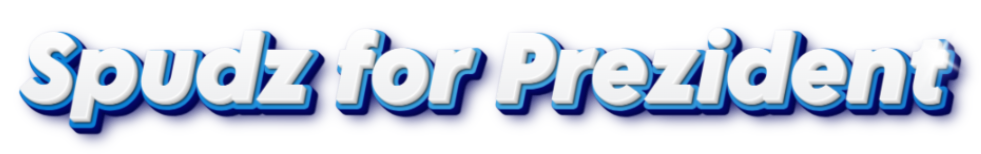
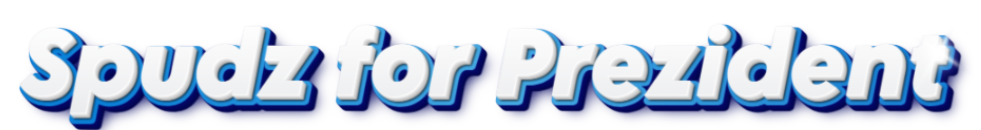
ui is great on desktop

diff --git a/src/app/_components/votingUi.tsx b/src/app/_components/votingUi.tsx
@@ -3,6 +3,7 @@ import { useVotes } from "@/hooks/useVotes"
 import { cn } from "@/utils/tailwind"
 import {motion, useAnimation} from "framer-motion"
 import { useEffect, useState } from "react"
+import { TotalVotes } from "./totalVotes"
 
 export const VotingUi = ()=>{
 const {addBidenVote , addTrumpVote} = useVotes()
@@ -46,20 +47,23 @@ const handleBidenClick = ()=>{
 
 
 
-    return <div className="flex relative  justify-center gap-32 px-14 w-full  z-0 mt-11" >
-    <div className="flex z-10 relative flex-col gap-7" >
+    return <div className="flex relative  justify-center lg:gap-36 gap-32 px-14 w-full  z-0 lg:mt-1 mt-11" >
+    <div className="flex z-10 relative flex-col lg:gap-0 gap-7" >
     <motion.h4  initial={{y : -300 , opacity : 1}} animate={voteTrumpAnimation} className={cn("H1 absolute top-44 right-0 text-white" , {"hidden" : !votingTrump} )} >+1</motion.h4>
-   <img  className="w-[400px]" src="/trumpText.png" />
-   <motion.img animate={rotateTrumpAnimation}   className="w-[400px] cursor-pointer" onClick={handleTrumpClick} src="/trumpBody.png" />
+   <img  className="w-[250px] " src="/trumpText.png" />
+   <motion.img animate={rotateTrumpAnimation}   className="w-[300px]  cursor-pointer" onClick={handleTrumpClick} src="/trumpBody.png" />
    </div>
+   <div className="flex flex-col pt-28 gap-4 items-center " >
    <div className="z-0 absolute top-1/2 flex  justify-center left-1/2 w-7/12 -translate-x-1/2 -translate-y-1/2" >
-   <img src="/vsBg.png" className="absolute z-[1]  opacity-70  top-1/2 left-1/2 -translate-x-1/2 -translate-y-1/2 w-full"  />
-   <img src="/vs.png"  className="z-[2] h-fit w-[320px] -translate-y-24" />
+   <img src="/vsBg.png" className="absolute z-[1]  lg:hidden opacity-70  top-1/2 left-1/2 -translate-x-1/2 -translate-y-1/2 w-full"  />
+   <img src="/vs.png"  className="z-[2] h-fit w-[180px] -translate-y-24" />
+   </div>
+   <div className="hidden lg:block" ><TotalVotes/></div>
    </div> 
-   <div className="flex z-10 relative flex-col gap-7" >
+   <div className="flex z-10 relative flex-col lg:gap-0 gap-7" >
    <motion.h4  initial={{y : -300 , opacity : 1}} animate={voteBidenAnimation} className={cn("H1 absolute top-44 right-0 text-white" , {"hidden" : !votingBiden} )} >+1</motion.h4>
-   <img className="w-[400px]" src="/bidenText.png" />
-   <motion.img className="w-[400px] cursor-pointer" animate={rotateBidenAnimation} onClick={handleBidenClick} src="/bidenBody.png" />
+   <img className="w-[250px]" src="/bidenText.png" />
+   <motion.img className="w-[300px] cursor-pointer" animate={rotateBidenAnimation} onClick={handleBidenClick} src="/bidenBody.png" />
    </div>
 
   </div>

diff --git a/src/app/_components/leaderboard.tsx b/src/app/_components/leaderboard.tsx
@@ -94,14 +94,14 @@ export const LeaderBoard : React.FC<{ipAddress : string  , countriesVotes : Coun
  
 
 
-     const greatestCountry = countriesVotes.reduce((acc , countryVotes)=>{
+     const greatestCountry : CountryInfoDb | undefined = countriesVotes.length ? countriesVotes?.reduce((acc , countryVotes)=>{
     
 if(acc.biden + acc.trump < countryVotes.biden+ countryVotes.trump) return countryVotes
 else return acc
-     })
+     }) : undefined
     return        <motion.div  initial={{y : 0}} animate={openLeaderboardAnimation} className="bg-white relative  w-[900px]  mt-6  flex flex-col" >
     <div className="px-8 py-4  flex items-center justify-between" >
-    <div className="flex gap-1 items-center  " ><div>#1</div>    <img src={`/flags/${greatestCountry.countrySymbol?.trim().toLowerCase()}.png`}  width="50px" />{ greatestCountry.trump + greatestCountry.biden }    </div>
+    { greatestCountry ?  <div className="flex gap-1 items-center  " ><div>#1</div>    <img src={`/flags/${greatestCountry.countrySymbol?.trim().toLowerCase()}.png`}  width="50px" />{ greatestCountry.trump + greatestCountry.biden }    </div> : <div className="skeleton w-40 h-8" ></div> }
     <div className="flex gap-4 items-center  " >
     <img src={`/flags/${countrySymbol?.trim().toLowerCase()}.png`}  width="50px" />{ totalCountryVotes }
     {leaderboardOpened ? <img onClick={closeLeaderBoard} src="/icons/dropDown.svg " className="w-[25px] rotate-180 cursor-pointer" /> :  <img onClick={openLeaderBoard} src="/icons/dropDown.svg " className="w-[25px] cursor-pointer" />}

diff --git a/src/app/page.tsx b/src/app/page.tsx
@@ -18,18 +18,18 @@ export default async function Home() {
 
   
    return (
-    <main className="max-w-[1500px] overflow-hidden flex items-center  flex-col justify-center pt-3 px-3 pb-0 ">
-      <img src="/pageTitle.png" width="900px" />
-      <h5 className="text-3xl text-white tracking-wider font-bold mt-11 text-center" >Tap on your favorite Spudz candidate to cast your vote!</h5>
-      <img src="/pageFlag.png" width="820px" />
+    <main className="max-w-[1500px] overflow-hidden flex items-center  flex-col justify-center pt-3 lg:pt-0 px-3 pb-0 ">
+      <img src="/pageTitle.png" width="600px" className="" style={{margin : 0}}  />
+      <h5 style={{margin : 0}} className="text-3xl text-white tracking-wider font-bold lg:mt-0 mt-11 text-center" >Tap on your favorite Spudz candidate to cast your vote!</h5>
+      <img src="/pageFlag.png" className="lg:hidden" width="820px" />
       <VotingUi/>
-      <TotalVotes/>
-      <div id="votesComperation" className="flex mt-24 justify-between px-16 w-full items-end " >
+      <div className="block lg:hidden" ><TotalVotes/></div>
+      <div id="votesComperation" className="flex lg:mt-4 mt-24 justify-between px-16 w-full items-end " >
        <TrumpVotes/>
        <GreaterSign/>
         <BidenVotes/>
        </div>
-       <img  className="mt-16" src="/leaderboard.png"  width="400px" />
+       <img  className="mt-16 lg:hidden" src="/leaderboard.png"  width="400px" />
        <LeaderBoard countriesVotes={allCountriesVotes} ipAddress={ipAddress || ""}/>
     </main>
   );

diff --git a/src/app/_components/candidates.tsx b/src/app/_components/candidates.tsx
@@ -27,7 +27,7 @@ export const TrumpVotes = ()=>{
 
 
 
-    return       <div className="flex flex-col gap-7 items-center" >
+    return       <div className="flex flex-col lg:gap-2 gap-7 items-center" >
     <h4 style={{margin : 0}} className="H4" >Trump Spudz</h4>
     {totalTrumVotes ? <h4 style={{margin : 0}} className="H4" >{totalTrumVotes}</h4> : <div className="skeleton w-24 h-9" ></div> }
     {racio ?  <button style={{margin : 0}} className="bg-red-500 rounded-xl H4 p-4" >{Math.round(racio)}%</button> : <div className="skeleton w-24 h-9" ></div> }
@@ -58,7 +58,7 @@ export const BidenVotes = ()=>{
 
 
 
-    return        <div className="flex flex-col gap-7 items-center" >
+    return        <div className="flex flex-col lg:gap-2 gap-7 items-center" >
     <h4 style={{margin : 0}} className="H4" >Biden Spudz</h4>
     {totalBidenVotes ?  <h4 style={{margin : 0}} className="H4" >{totalBidenVotes}</h4> : <div className="skeleton w-24 h-9" ></div> }
     {racio ?  <button style={{margin : 0}} className="bg-red-500 rounded-xl H4 p-4" >{Math.round(racio)}%</button> : <div className="skeleton w-24 h-9" ></div> }

diff --git a/src/app/_components/totalVotes.tsx b/src/app/_components/totalVotes.tsx
@@ -9,9 +9,16 @@ export const TotalVotes = ()=>{
         totalVotes = (totalVotes || 0) + (countriesVotes[i].biden + countriesVotes[i].trump)
     }
 
-    console.log("countreis votes" , countriesVotes)
-    return       <div id="totalVotes" className="flex flex-col items-center gap-1 mt-9" >
+    return      <><div id="totalVotes" className="flex lg:hidden flex-col items-center gap-1 mt-9" >
     <h4 className="H4 " style={{margin : 0}} >Total Votes</h4>
     {totalVotes ?   <h4 className="H4 " style={{margin : 0}}>{totalVotes}</h4>  : <div className="skeleton w-24 h-9" ></div>}
     </div>
+    <div className="lg:flex hidden flex-col gap-4 items-center justify-center">
+    <div id="totalVotes" className="flex flex-col items-center gap-1 mt-9" >
+    <h4 className="H4 " style={{margin : 0}} >Total Votes</h4>
+    {totalVotes ?   <h4 className="H4 " style={{margin : 0}}>{totalVotes}</h4>  : <div className="skeleton w-24 h-9" ></div>}
+    </div>
+    <img src="/leaderboard.png" width="200px" />
+    </div>
+    </> 
 }

diff --git a/src/app/layout.tsx b/src/app/layout.tsx
@@ -21,7 +21,7 @@ export default function RootLayout({
 
   return (
     <html lang="en">
-   <body className="flex flex-col justify-center  items-center pt-16  bg-black w-full h-full">
+   <body className="flex flex-col justify-center  items-center lg:pt-2 pt-16  bg-black w-full h-full">
     <AppProvider>{children}</AppProvider>
     </body>
     </html>
